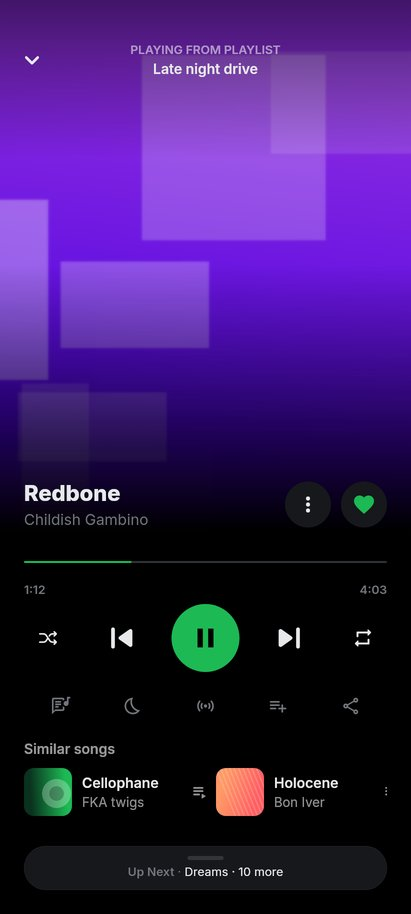
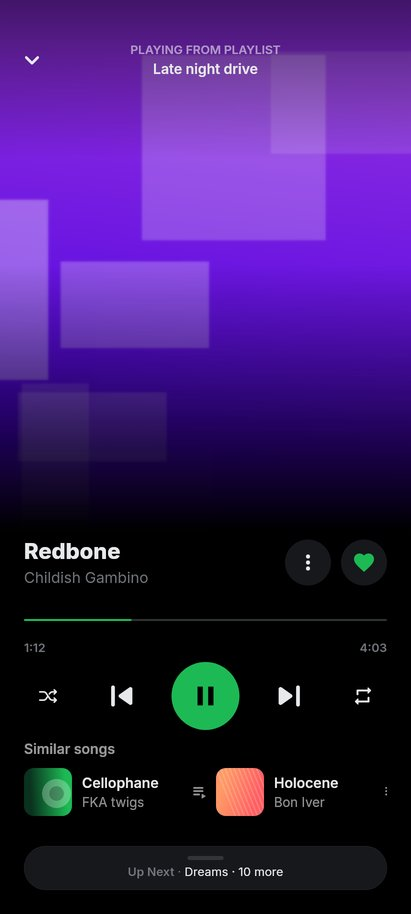
1.7.146: changelog, version, player screenshots, SKIPPED entry
Claude-Session: https://claude.ai/code/session_01QqANA2KoyktcKRw8NbVQ7X

diff --git a/lib/utils/app_version.dart b/lib/utils/app_version.dart
@@ -5,7 +5,7 @@ import 'package:package_info_plus/package_info_plus.dart';
 ///
 /// MUST stay in sync with `version:` in pubspec.yaml — `test/app_version_test.dart`
 /// asserts this, so a bumped pubspec with a stale constant fails the suite.
-const String kPubspecAppVersion = '1.7.145';
+const String kPubspecAppVersion = '1.7.146';
 
 /// Splits any version-ish string into exactly three numeric parts.
 ///

diff --git a/docs/redesign/SKIPPED.md b/docs/redesign/SKIPPED.md
@@ -45,6 +45,7 @@ elements (or can't be done on this SDK), and what was done instead.
 | 8 | Sleep-timer countdown tabular figures | A non-colour `copyWith` (fontFeatures) kept so the digits don't jitter | kept |
 | 3 (revised after 1.7.142) | Rail: no indicator, outline/filled glyphs 24, 11/600 labels, right hairline | The owner preferred the pre-restyle rail | pre-restyle rail look restored: accent box (16% fill, 28% outline) behind the active glyph, muted inactive items, titleMedium/bodyLarge labels, no right hairline; width 47, items, order and the selection haptic unchanged |
 | 6 (revised after 1.7.144) | Full-width 65 dp queue strip (handle, "Up Next" and the next song on two lines, hairline top) | The owner asked for it smaller and rounded | a 44 dp floating card in the mini player's style (surface1, hairline edge, radius 24), 24 dp side margins in line with the player content and clear of the system inset; handle kept, "Up Next" and the next song on one line; the queue fades in as it opens; tap and drag unchanged |
+| 6 (revised after 1.7.145) | Music player action row under the transport (lyrics, sleep timer, radio, add to playlist, share) | The owner asked for all of them under the ⋮ | row removed from the music player; the ⋮ sheet already had radio, add to playlist and share, and now opens with Show/Hide lyrics and Sleep timer (time left as subtitle while it runs) under its quick actions; the podcast/audiobook and gesture players keep their rows |
 
 ## Known side effects of Phase 1 (to settle in later phases)
 

diff --git a/CHANGELOG.md b/CHANGELOG.md
@@ -1,3 +1,13 @@
+# 1.7.146
+
+**Player buttons moved into ⋮**
+* The row of buttons under the song (lyrics, sleep timer, radio, add to
+  playlist, share) is gone; the cover gets the room
+* All five are in the ⋮ menu next to the song title: Start radio, Add to
+  playlist and Share at the top as before, then Show/Hide lyrics and Sleep
+  timer, which shows the time left while it runs
+* Tapping the cover still shows the lyrics
+
 # 1.7.145
 
 **A smaller, rounded Up Next**
